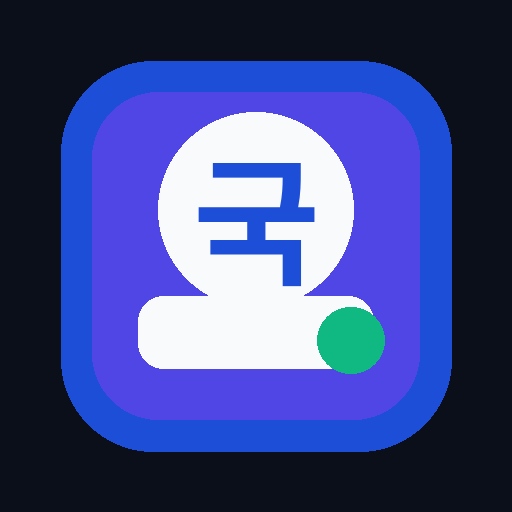
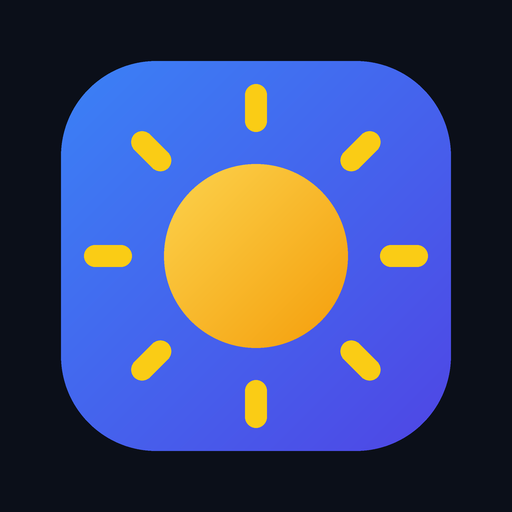
Add files via upload

diff --git a/netlify/functions/send-next-notification.js b/netlify/functions/send-next-notification.js
@@ -4,10 +4,18 @@ const DATABASE_URL = process.env.FIREBASE_DATABASE_URL || "https://ryuso-af2f2-d
 const STATE_PATH = "/directorQueue/v1/state";
 
 function getServiceAccount() {
+  const projectId = process.env.FIREBASE_PROJECT_ID;
+  const clientEmail = process.env.FIREBASE_CLIENT_EMAIL;
+  const privateKey = process.env.FIREBASE_PRIVATE_KEY;
+  if (!projectId || !clientEmail || !privateKey) {
+    throw new Error(
+      "Missing one of FIREBASE_PROJECT_ID / FIREBASE_CLIENT_EMAIL / FIREBASE_PRIVATE_KEY env vars"
+    );
+  }
   return {
-    projectId: process.env.FIREBASE_PROJECT_ID,
-    clientEmail: process.env.FIREBASE_CLIENT_EMAIL,
-    privateKey: process.env.FIREBASE_PRIVATE_KEY.replace(/\\n/g, "\n"),
+    projectId,
+    clientEmail,
+    privateKey: privateKey.replace(/\\n/g, "\n"),
   };
 }
 
@@ -35,54 +43,60 @@ exports.handler = async (event) => {
   if (event.httpMethod === "OPTIONS") return json(200, { ok: true });
   if (event.httpMethod !== "POST") return json(405, { ok: false, error: "POST only" });
 
-  const ref = admin.database().ref(STATE_PATH);
-  const snap = await ref.get();
-  const state = snap.val() || { bookings: [] };
-  const bookings = Array.isArray(state.bookings) ? state.bookings : [];
+  try {
+    const ref = admin.database().ref(STATE_PATH);
+    const snap = await ref.get();
+    const state = snap.val() || { bookings: [] };
+    const bookings = Array.isArray(state.bookings) ? state.bookings : [];
 
-  const idx = bookings.findIndex((b) => b && b.status === "REPORTING");
-  if (idx < 0) return json(200, { ok: true, skipped: "no-reporting" });
+    const idx = bookings.findIndex((b) => b && b.status === "REPORTING");
+    if (idx < 0) return json(200, { ok: true, skipped: "no-reporting" });
 
-  const current = bookings[idx];
-  if (!current.fcmToken) return json(200, { ok: true, skipped: "no-fcm-token", reportingId: current.id });
+    const current = bookings[idx];
+    if (!current.fcmToken) return json(200, { ok: true, skipped: "no-fcm-token", reportingId: current.id });
 
-  if (current.pushNotifiedAt && current.pushNotifiedCalledAt === current.calledAt) {
-    return json(200, { ok: true, skipped: "already-sent", reportingId: current.id });
-  }
+    // 같은 calledAt에 대해 중복 발송 방지
+    if (current.pushNotifiedAt && current.pushNotifiedCalledAt === current.calledAt) {
+      return json(200, { ok: true, skipped: "already-sent", reportingId: current.id });
+    }
 
-  const title = "국장실 보고대기";
-  const body = `${current.department || "해당"}팀 차례입니다. 국장실 앞으로 와주세요.`;
+    const title = "국장실 보고대기";
+    const body = `${current.department || "해당"}팀 차례입니다. 국장실 앞으로 와주세요.`;
 
-  await admin.messaging().send({
-    token: current.fcmToken,
-    notification: { title, body },
-    webpush: {
-      notification: {
+    await admin.messaging().send({
+      token: current.fcmToken,
+      notification: { title, body },
+      webpush: {
+        notification: {
+          title,
+          body,
+          icon: "/icons/icon-192.png",
+          badge: "/icons/icon-192.png",
+          requireInteraction: true,
+        },
+        fcmOptions: {
+          link: "https://reportflowincomeenergy-git.netlify.app/",
+        },
+      },
+      data: {
         title,
         body,
-        icon: "/icons/icon-192.png",
-        badge: "/icons/icon-192.png",
-        requireInteraction: true,
+        bookingId: String(current.id || ""),
+        calledAt: String(current.calledAt || ""),
       },
-      fcmOptions: {
-        link: "https://reportflowincomeenergy-git.netlify.app/",
-      },
-    },
-    data: {
-      title,
-      body,
-      bookingId: String(current.id || ""),
-      calledAt: String(current.calledAt || ""),
-    },
-  });
+    });
 
-  bookings[idx] = {
-    ...current,
-    pushNotifiedAt: Date.now(),
-    pushNotifiedCalledAt: current.calledAt || null,
-  };
+    bookings[idx] = {
+      ...current,
+      pushNotifiedAt: Date.now(),
+      pushNotifiedCalledAt: current.calledAt || null,
+    };
 
-  await ref.update({ bookings });
+    await ref.update({ bookings });
 
-  return json(200, { ok: true, sent: true, reportingId: current.id });
+    return json(200, { ok: true, sent: true, reportingId: current.id });
+  } catch (error) {
+    console.error("send-next-notification error", error);
+    return json(500, { ok: false, error: error.message || String(error) });
+  }
 };

diff --git a/index.html b/index.html
@@ -309,12 +309,12 @@ body.light-mode #myBookingCard .bg-emerald-500\/20 {
 </div>
 
 <div class="bg-slate-900 border border-gray-800 rounded-2xl p-6 flex flex-col flex-grow light-card">
-<div class="flex items-center justify-between mb-5">
-<h2 class="text-lg font-bold text-white flex items-center gap-2">
-<span>실시간 대기열</span>
-<span id="waitingCountBadge" class="inline-flex items-center rounded-full bg-blue-500/10 px-2.5 py-0.5 text-sm font-bold text-blue-400 ring-1 ring-inset ring-blue-400/10">0팀 대기</span>
+<div class="flex flex-col gap-1.5 sm:flex-row sm:items-center sm:justify-between mb-5">
+<h2 class="text-lg font-bold text-white flex items-center flex-wrap gap-2">
+<span class="whitespace-nowrap">실시간 대기열</span>
+<span id="waitingCountBadge" class="inline-flex items-center whitespace-nowrap shrink-0 rounded-full bg-blue-500/10 px-2.5 py-0.5 text-sm font-bold text-blue-400 ring-1 ring-inset ring-blue-400/10">0팀 대기</span>
 </h2>
-<span id="queueHelperText" class="text-xs text-gray-500">대기 순서대로 배치되며 관리자가 상시 조율 가능합니다</span>
+<span id="queueHelperText" class="text-xs text-gray-500 sm:text-right">대기 순서대로 배치되며 관리자가 상시 조율 가능합니다</span>
 </div>
 
 <div id="queueEmptyState" class="flex-grow flex flex-col items-center justify-center py-12 text-center text-gray-500">
@@ -950,7 +950,7 @@ async function requestNotificationPermission() {
     }
   }
 
-  alert("일반 브라우저 알림은 켜졌지만, FCM 토큰 발급은 실패했습니다. 배포 주소가 HTTPS인지 확인하세요.");
+  alert("일반 브라우저 알림은 켜졌지만, FCM 토큰 발급은 실패했습니다.\n\n실제 오류:\n" + (window.__lastFcmError || "(오류 메시지 없음 - getToken이 빈 값을 반환함)"));
 }
 
 function setQuickDept(deptName) {
@@ -1344,6 +1344,7 @@ window.initPushNotifications = async function initPushNotifications() {
     return "";
   } catch (error) {
     console.error("FCM token error", error);
+    window.__lastFcmError = (error && (error.code || error.message)) ? `${error.code || ""} ${error.message || error}`.trim() : String(error);
     return "";
   }
 };